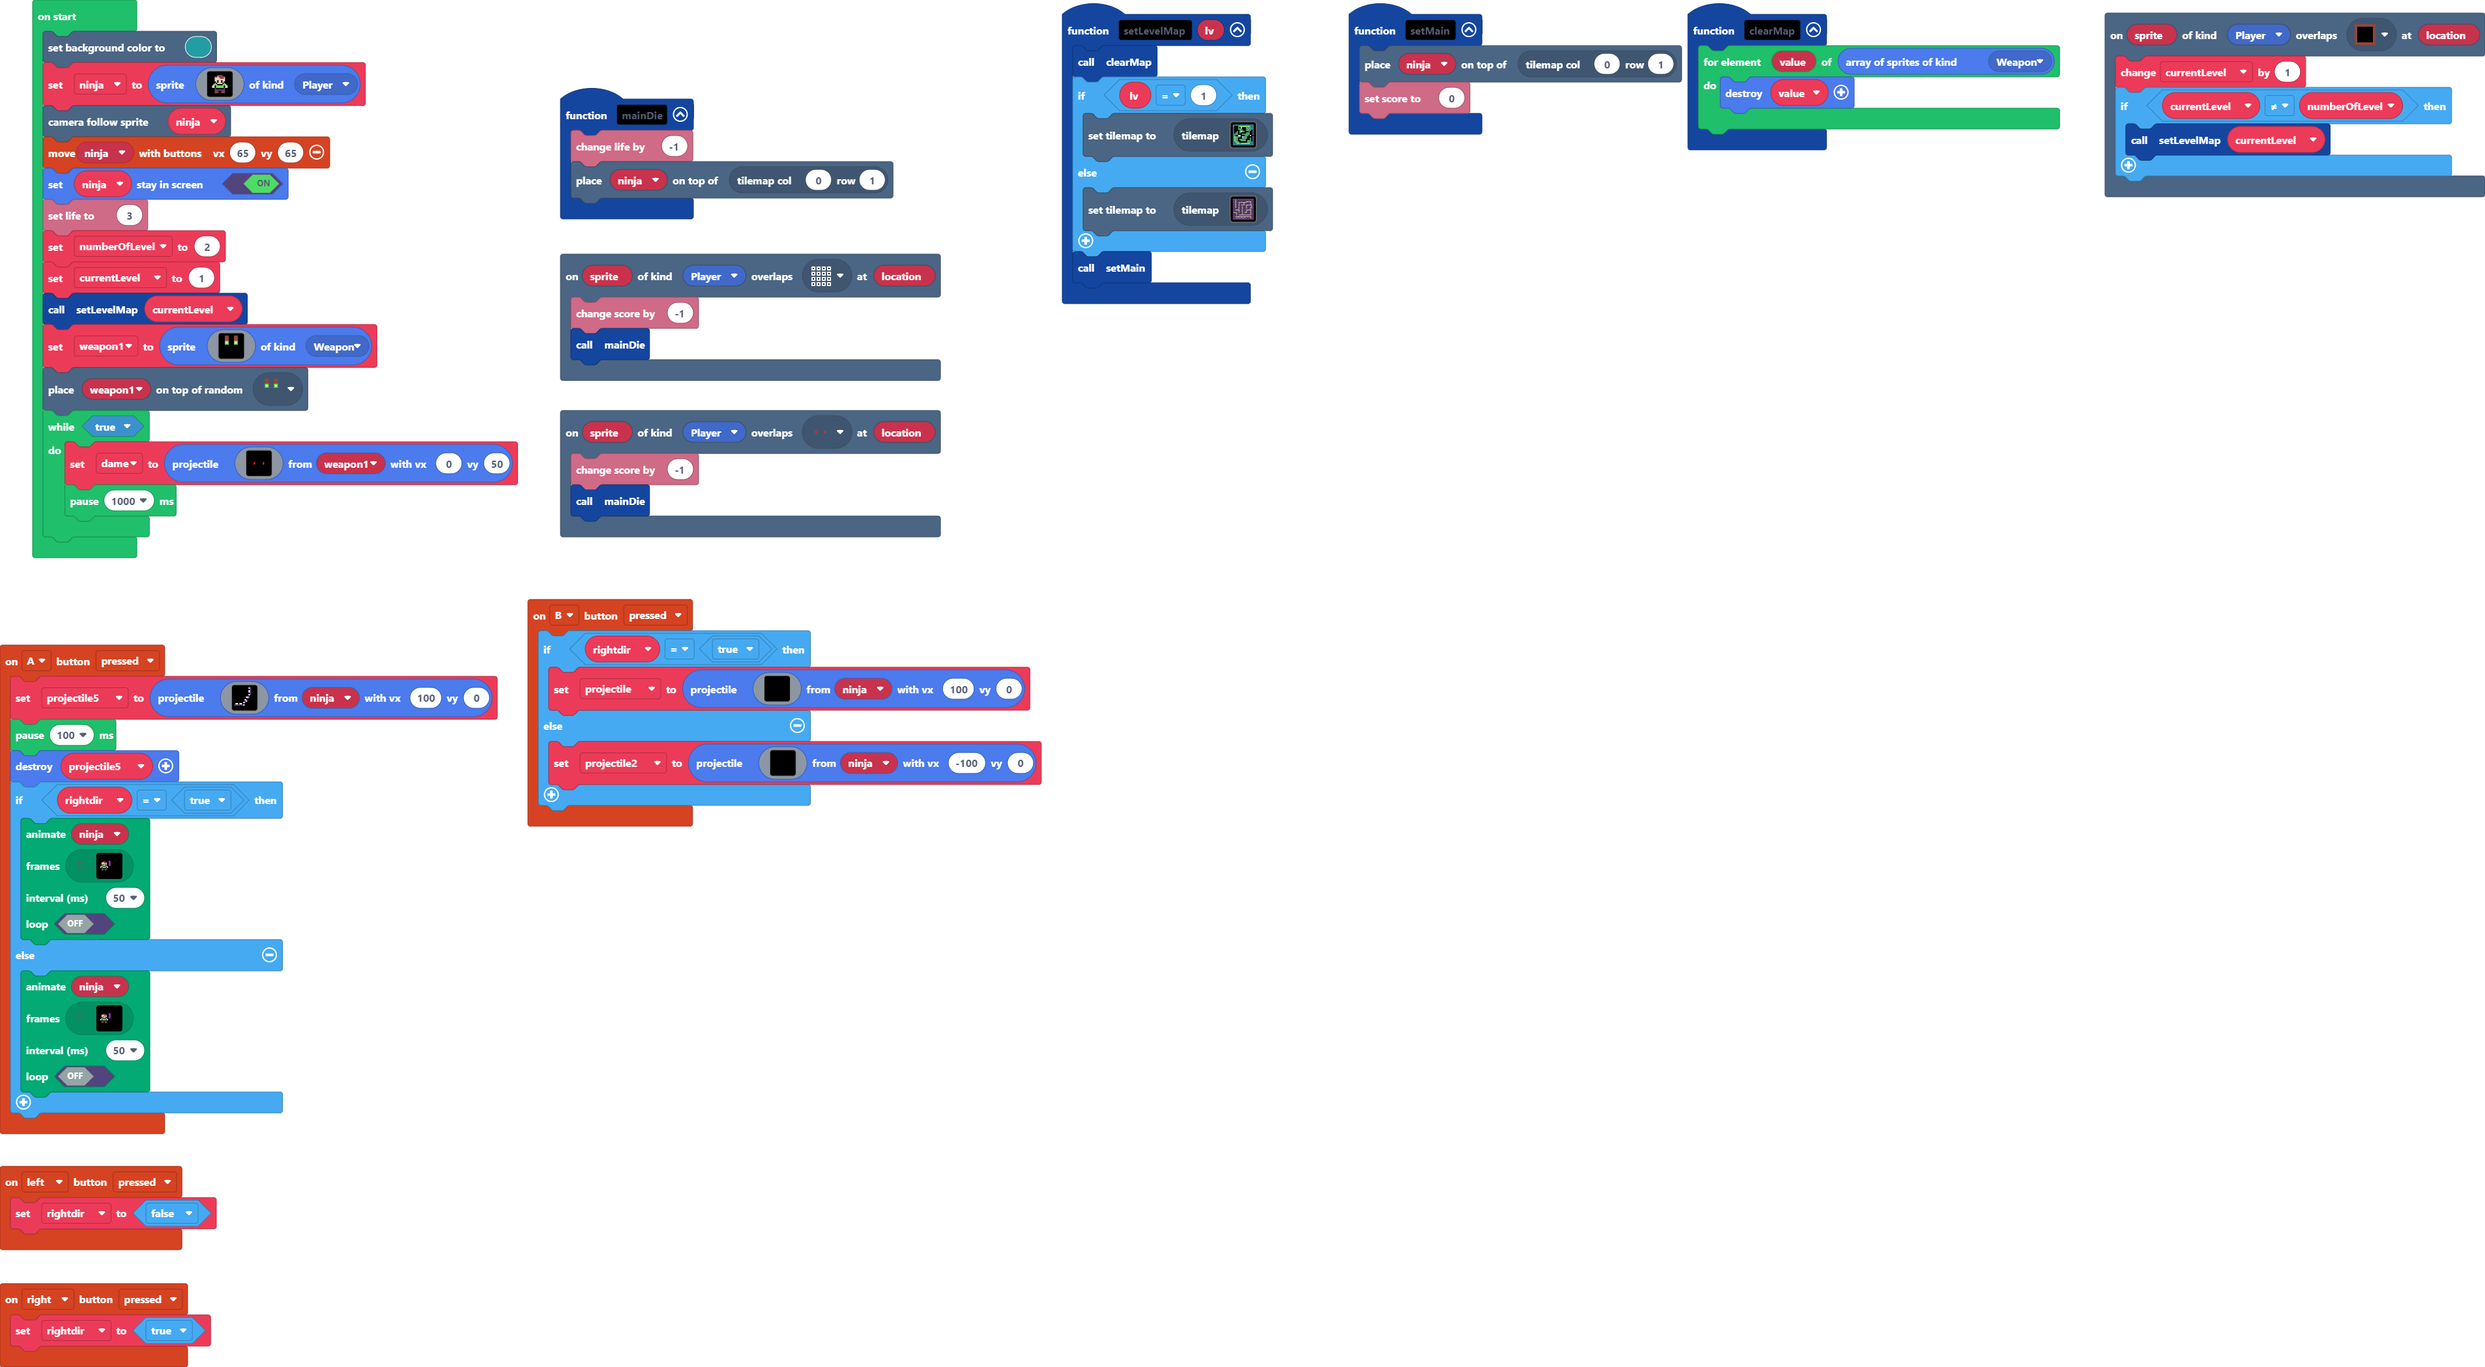
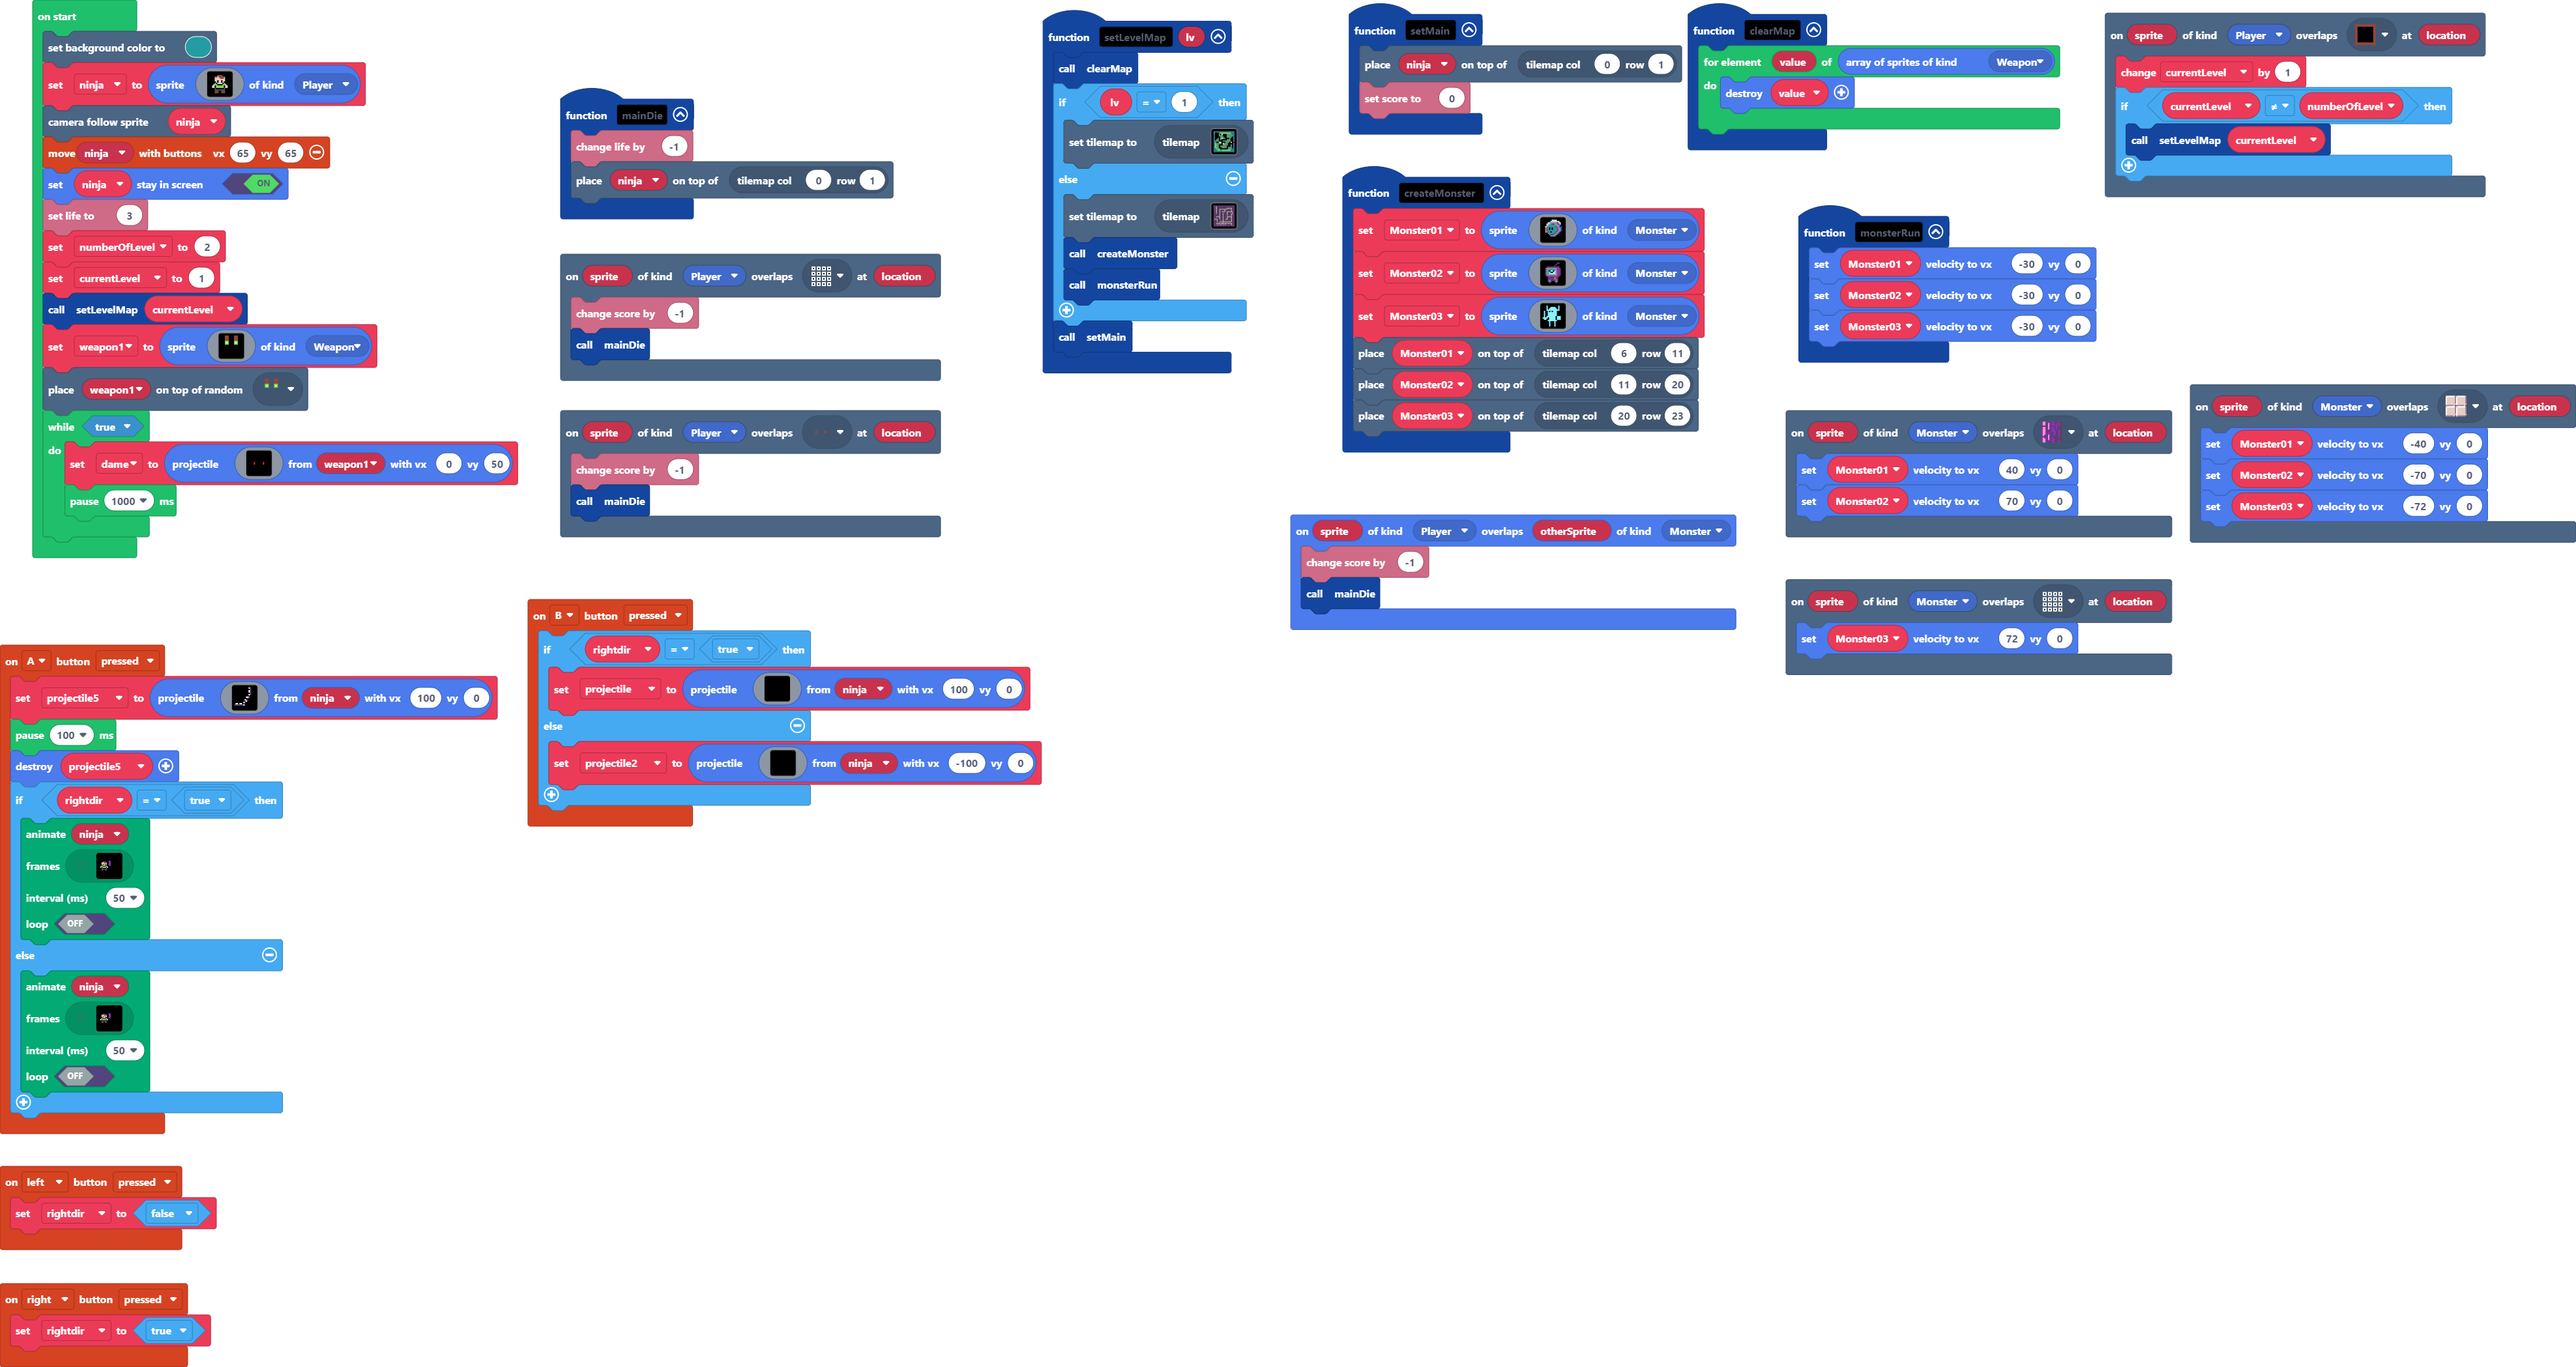
add and run monster

diff --git a/tilemap.g.ts b/tilemap.g.ts
@@ -93,34 +93,6 @@ namespace myTiles {
 . . . . . . . . . . . . . . . . 
 . . . . . . . . . . . . . . . . 
 `, [myTiles.transparency16], TileScale.Sixteen);
-            case "tilemap1":
[1 lines of base64/hex data omitted]
-2222222222222222222222222
-...2....................2
-2..2....................2
-2..2............222222..2
-2..2...2222222222....2..2
-2..2...2.....2.......2..2
-2..2...2.....2.......2..2
-2..2...2..2222..2222222.2
-2..2...2........2.....2.2
-2..2...2...2....2.....2.2
-2..2...2...2....2....22.2
-2......2...2....2....2..2
-2......2...2.........2..2
-2..22222...2....222222..2
-2......2...2....2....2..2
-2......2...2....2....2..2
-22222..2...2..222....2..2
-2...2......2.........2..2
-2...2......2.........2..2
-2...2..222222222222222..2
-2.......................2
-2..2222222222222222222..2
-2....................2..2
-2....................2..2
-22222222222222222222.2222
-`, [myTiles.transparency16,sprites.dungeon.darkGroundNorthWest0,sprites.dungeon.purpleOuterNorthWest,sprites.dungeon.purpleOuterNorth0,sprites.dungeon.purpleOuterNorthEast,sprites.dungeon.purpleOuterEast0,sprites.dungeon.purpleOuterSouthWest,sprites.dungeon.purpleOuterSouth0,sprites.dungeon.purpleOuterSouthEast,sprites.dungeon.purpleOuterWest1,sprites.dungeon.purpleOuterWest2,sprites.dungeon.stairWest,sprites.dungeon.purpleOuterSouth2,sprites.dungeon.darkGroundSouthWest0,sprites.dungeon.darkGroundWest,sprites.dungeon.darkGroundNorth,sprites.dungeon.darkGroundNorthEast0,sprites.dungeon.darkGroundSouthEast0,sprites.dungeon.darkGroundSouth,sprites.dungeon.darkGroundEast,sprites.dungeon.darkGroundCenter,myTiles.tile1,myTiles.tile5,sprites.dungeon.purpleOuterSouth1,sprites.dungeon.floorLight0,sprites.dungeon.darkGroundSouthWest1], TileScale.Sixteen);
             case "map-demo":
[1 lines of base64/hex data omitted]
 2 2 2 2 2 2 2 2 2 2 2 2 2 2 2 2 
@@ -140,6 +112,34 @@ namespace myTiles {
 2 2 2 2 2 2 2 2 2 2 2 2 2 2 2 2 
 2 2 2 2 2 2 2 2 2 2 2 2 2 2 2 2 
 `, [myTiles.transparency16,sprites.castle.tileGrass2,sprites.castle.tileGrass1,sprites.builtin.forestTiles0,sprites.swamp.swampTile1,sprites.swamp.swampTile0,sprites.swamp.swampTile2,sprites.castle.saplingPine,sprites.castle.shrub,sprites.castle.rock0,sprites.castle.rock2,sprites.dungeon.stairLarge,sprites.dungeon.purpleOuterWest2,sprites.builtin.forestTiles1,sprites.builtin.forestTiles3,sprites.builtin.forestTiles2,myTiles.tile1,myTiles.tile2,myTiles.tile5], TileScale.Sixteen);
+            case "tilemap1":
[1 lines of base64/hex data omitted]
+2222222222222222222222222
+...2....................2
+2..2....................2
+2..2............222222..2
+2..2...2222222222....2..2
+2..2...2.....2.......2..2
+2..2...2.....2.......2..2
+2..2...2..2222..2222222.2
+2..2...2........2.....2.2
+2..2...2...2....2.....2.2
+2......2...2....2....22.2
+...........2....2....2..2
+2......2...2.........2..2
+2..22222...2....222222..2
+2......2...2....2....2..2
+2......2...2....2....2..2
+22222..2...2..222....2..2
+2...2......2.........2..2
+2...2......2.........2..2
+2...2..222222222222222..2
+2.......................2
+2..2222222222222222222..2
+2....................2..2
+2....................2..2
+22222222222222222222.2222
+`, [myTiles.transparency16,sprites.dungeon.darkGroundNorthWest0,sprites.dungeon.purpleOuterNorthWest,sprites.dungeon.purpleOuterNorth0,sprites.dungeon.purpleOuterNorthEast,sprites.dungeon.purpleOuterEast0,sprites.dungeon.purpleOuterSouthWest,sprites.dungeon.purpleOuterSouth0,sprites.dungeon.purpleOuterSouthEast,sprites.dungeon.purpleOuterWest1,sprites.dungeon.purpleOuterWest2,sprites.dungeon.stairWest,sprites.dungeon.purpleOuterSouth2,sprites.dungeon.darkGroundSouthWest0,sprites.dungeon.darkGroundWest,sprites.dungeon.darkGroundNorth,sprites.dungeon.darkGroundNorthEast0,sprites.dungeon.darkGroundSouthEast0,sprites.dungeon.darkGroundSouth,sprites.dungeon.darkGroundEast,sprites.dungeon.darkGroundCenter,myTiles.tile1,myTiles.tile5,sprites.dungeon.purpleOuterSouth1,sprites.dungeon.floorLight0,sprites.dungeon.darkGroundSouthWest1,sprites.dungeon.darkGroundSouthEast1], TileScale.Sixteen);
         }
         return null;
     })

diff --git a/main.ts b/main.ts
@@ -2,6 +2,7 @@ namespace SpriteKind {
     export const ground = SpriteKind.create()
     export const Weapon = SpriteKind.create()
     export const Start = SpriteKind.create()
+    export const Monster = SpriteKind.create()
 }
 scene.onOverlapTile(SpriteKind.Player, assets.tile`myTile0`, function (sprite, location) {
     currentLevel += 1
@@ -16,6 +17,11 @@ controller.B.onEvent(ControllerButtonEvent.Pressed, function () {
         projectile2 = sprites.createProjectileFromSprite(assets.image`phi_tieu`, ninja, -100, 0)
     }
 })
+function monsterRun () {
+    Monster01.setVelocity(-30, 0)
+    Monster02.setVelocity(-30, 0)
+    Monster03.setVelocity(-30, 0)
+}
 controller.A.onEvent(ControllerButtonEvent.Pressed, function () {
     projectile5 = sprites.createProjectileFromSprite(img`
         . . . . . . . . . . . 1 c . . . 
@@ -56,6 +62,9 @@ controller.A.onEvent(ControllerButtonEvent.Pressed, function () {
 controller.left.onEvent(ControllerButtonEvent.Pressed, function () {
     rightdir = false
 })
+scene.onOverlapTile(SpriteKind.Monster, assets.tile`trap0`, function (sprite, location) {
+    Monster03.setVelocity(72, 0)
+})
 function setMain () {
     tiles.placeOnTile(ninja, tiles.getTileLocation(0, 1))
     info.setScore(0)
@@ -64,8 +73,25 @@ function mainDie () {
     info.changeLifeBy(-1)
     tiles.placeOnTile(ninja, tiles.getTileLocation(0, 1))
 }
+sprites.onOverlap(SpriteKind.Player, SpriteKind.Monster, function (sprite, otherSprite) {
+    info.changeScoreBy(-1)
+    mainDie()
+})
+function createMonster () {
+    Monster01 = sprites.create(assets.image`monster1`, SpriteKind.Monster)
+    Monster02 = sprites.create(assets.image`monster2`, SpriteKind.Monster)
+    Monster03 = sprites.create(assets.image`monster3`, SpriteKind.Monster)
+    tiles.placeOnTile(Monster01, tiles.getTileLocation(6, 11))
+    tiles.placeOnTile(Monster02, tiles.getTileLocation(11, 20))
+    tiles.placeOnTile(Monster03, tiles.getTileLocation(20, 23))
+}
 controller.right.onEvent(ControllerButtonEvent.Pressed, function () {
     rightdir = true
+})
+scene.onOverlapTile(SpriteKind.Monster, sprites.dungeon.floorLight0, function (sprite, location) {
+    Monster01.setVelocity(-40, 0)
+    Monster02.setVelocity(-70, 0)
+    Monster03.setVelocity(-72, 0)
 })
 function setLevelMap (lv: number) {
     clearMap()
@@ -73,12 +99,18 @@ function setLevelMap (lv: number) {
         tiles.setCurrentTilemap(tilemap`map-demo`)
     } else {
         tiles.setCurrentTilemap(tilemap`tilemap1`)
+        createMonster()
+        monsterRun()
     }
     setMain()
 }
 scene.onOverlapTile(SpriteKind.Player, assets.tile`trap`, function (sprite, location) {
     info.changeScoreBy(-1)
     mainDie()
+})
+scene.onOverlapTile(SpriteKind.Monster, sprites.dungeon.purpleOuterWest1, function (sprite, location) {
+    Monster01.setVelocity(40, 0)
+    Monster02.setVelocity(70, 0)
 })
 scene.onOverlapTile(SpriteKind.Player, assets.tile`dameTile1`, function (sprite, location) {
     info.changeScoreBy(-1)
@@ -90,6 +122,9 @@ function clearMap () {
     }
 }
 let projectile5: Sprite = null
+let Monster03: Sprite = null
+let Monster02: Sprite = null
+let Monster01: Sprite = null
 let projectile2: Sprite = null
 let projectile: Sprite = null
 let rightdir = false
